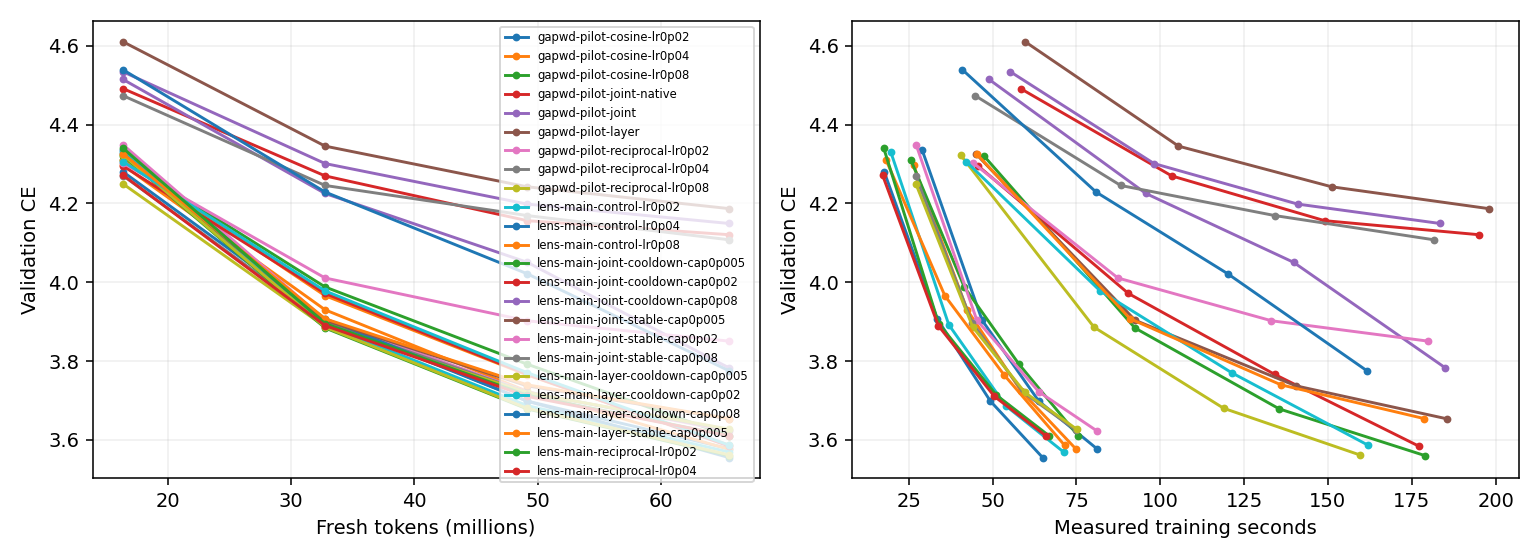
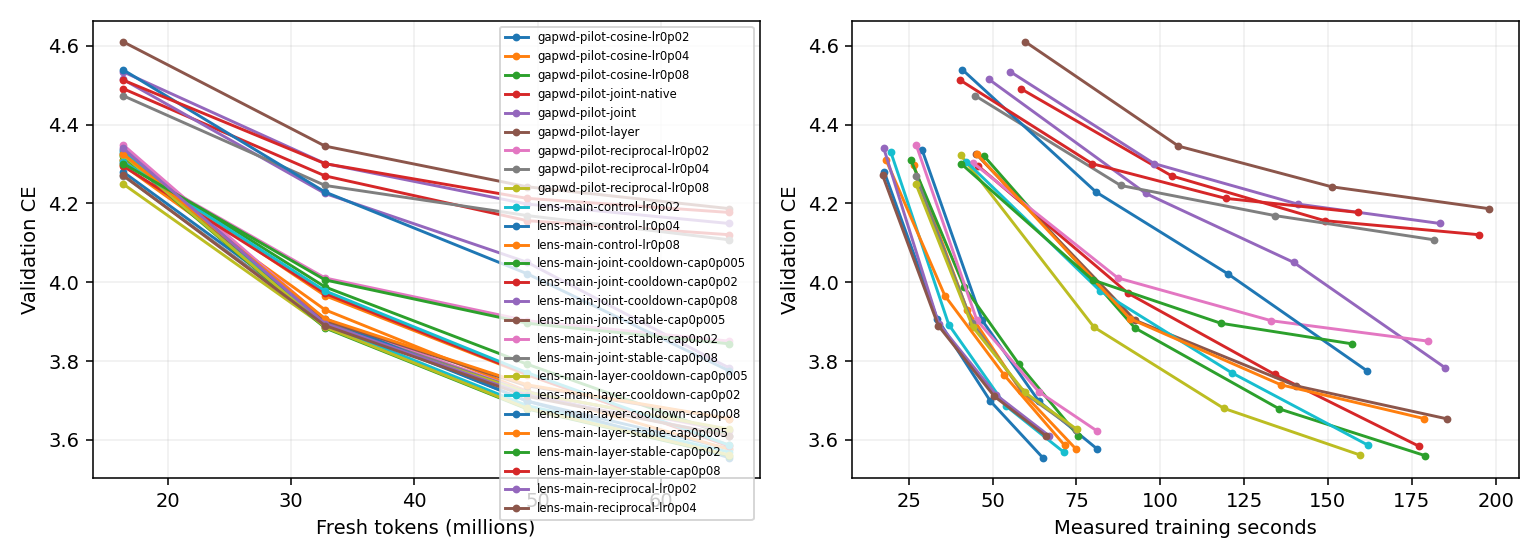
Update live Muon experiment results

diff --git a/research/unnormalized_muon/RESULTS.md b/research/unnormalized_muon/RESULTS.md
@@ -79,6 +79,9 @@ One B300 per job. CE is token cross-entropy (nats); lower is better. Rows with d
 | um-lens-main-layer-cooldown-cap0p005 | Clean GapWD layer uniform v2 c-in-Q armijo cap0.005/cooldown fixed_lambda=0.18375 WD:standard(0) | 2000 | 0 | 0.04 | 3.561886 | 1.079815 | — | 227.76 |
 | um-lens-main-layer-cooldown-cap0p02 | Clean GapWD layer uniform v2 c-in-Q armijo cap0.02/cooldown fixed_lambda=0.18375 WD:standard(0) | 2000 | 0 | 0.04 | 3.586478 | 1.087264 | — | 230.84 |
 | um-lens-main-layer-cooldown-cap0p08 | Clean GapWD layer uniform v2 c-in-Q armijo cap0.08/cooldown fixed_lambda=0.18375 WD:standard(0) | 2000 | 0 | 0.04 | 3.775003 | 1.144357 | — | 254.49 |
+| um-lens-main-layer-stable-cap0p005 | Clean GapWD layer uniform v2 c-in-Q armijo cap0.005/stable fixed_lambda=0.18375 WD:standard(0) | 2000 | 0 | 0.04 | 3.653949 | 1.107712 | — | 251.43 |
+| um-lens-main-layer-stable-cap0p02 | Clean GapWD layer uniform v2 c-in-Q armijo cap0.02/stable fixed_lambda=0.18375 WD:standard(0) | 2000 | 0 | 0.04 | 3.843672 | 1.165215 | — | 226.67 |
+| um-lens-main-layer-stable-cap0p08 | Clean GapWD layer uniform v2 c-in-Q armijo cap0.08/stable fixed_lambda=0.18375 WD:standard(0) | 2000 | 0 | 0.04 | 4.177053 | 1.266205 | — | 223.52 |
 | um-lens-main-reciprocal-lr0p02 | Clean Muon shifted reciprocal v2 c-in-Q fixed_lambda=0.18375 WD:standard(0) | 2000 | 0 | 0.02 | 3.609994 | 1.094386 | — | 123.51 |
 | um-lens-main-reciprocal-lr0p04 | Clean Muon shifted reciprocal v2 c-in-Q fixed_lambda=0.18375 WD:standard(0) | 2000 | 0 | 0.04 | 3.610242 | 1.094431 | — | 116.29 |
 | um-screen-00-0-native-lr0p005 | Native cooldown | 2000 | 0 | 0.005 | 3.734536 | 1.132046 | — | 145.49 |
@@ -120,7 +123,7 @@ One B300 per job. CE is token cross-entropy (nats); lower is better. Rows with d
 
 Review of um-fw-diagnostic-001: Compiled training f0 compared against functional candidate losses; vanishing-step mismatch2-4e-5 exceeded tolerance, leading to curvature1e186 and45 skipped steps. Replaced by paired functional reference and candidates; retain all645 measured forwards and GPUcost.
 
-Conservative charged/reserved total: 9.4340 / 30 B300 GPU-hours. Includes prior smoke/failed attempts and current maximum-duration reservations. Six-slot central queue; one B300 per run.
+Conservative charged/reserved total: 8.6557 / 30 B300 GPU-hours. Includes prior smoke/failed attempts and current maximum-duration reservations. Six-slot central queue; one B300 per run.
 
 CLEAN geometry disables row equilibration and NorMuon. Original clean runs use zero matrix decay; new WD runs explicitly label standard or cautious decay and their CLI coefficient. Same five Polar Express steps and Frobenius correction; scale by the per-matrix nonnegative FP32 inner product of the native Nesterov input with the NS/Frobenius direction. Shape scaling occurs once outside the scalar. Legacy rows retain production extras and must be compared separately. Constant schedule changes only matrix LR; auxiliary schedules and momentum remain matched.
 

diff --git a/research/unnormalized_muon/FW_LENS_RESULTS.md b/research/unnormalized_muon/FW_LENS_RESULTS.md
@@ -30,6 +30,8 @@ Token-based schedule curves are descriptive. Independently scheduled equal-time 
 | um-lens-main-layer-cooldown-cap0p02 | layer-cooldown | 2000 updates | 0 | 3.586478 | — | 162.107 | 4006 | 32.671 | 230.84 |
 | um-lens-main-layer-cooldown-cap0p08 | layer-cooldown | 2000 updates | 0 | 3.775003 | — | 161.803 | 4065 | 40.630 | 254.49 |
 | um-lens-main-layer-stable-cap0p005 | layer-stable | 2000 updates | 0 | 3.653949 | — | 178.828 | 4000 | 33.361 | 251.43 |
+| um-lens-main-layer-stable-cap0p02 | layer-stable | 2000 updates | 0 | 3.843672 | — | 157.288 | 4004 | 31.804 | 226.67 |
+| um-lens-main-layer-stable-cap0p08 | layer-stable | 2000 updates | 0 | 4.177053 | — | 159.261 | 4064 | 31.763 | 223.52 |
 | um-lens-main-reciprocal-lr0p02 | reciprocal | 2000 updates | 0 | 3.609994 | — | 67.004 | 0 | 26.860 | 123.51 |
 | um-lens-main-reciprocal-lr0p04 | reciprocal | 2000 updates | 0 | 3.610242 | — | 65.990 | 0 | 23.884 | 116.29 |
 
@@ -55,5 +57,7 @@ Contraction is the actual coefficient product_t(1-lambda*eta_l,t), represented i
 | um-lens-main-layer-cooldown-cap0p02 | 2000/2000 | 0 | 0.015118 | 0.002778 | 1e-16 | 1 | -5.01 to -4.851 | 0.420678 |
 | um-lens-main-layer-cooldown-cap0p08 | 2000/2000 | 0 | 0.058428 | 0.010736 | 1e-16 | 1 | -19.79 to -18.76 | 0.404548 |
 | um-lens-main-layer-stable-cap0p005 | 2000/2000 | 0 | 0.005 | 0.00091875 | 1e-16 | 1 | -1.82 to -1.8 | 0.305951 |
+| um-lens-main-layer-stable-cap0p02 | 2000/2000 | 0 | 0.02 | 0.003675 | 1e-16 | 1 | -7.286 to -7.098 | 0.460939 |
+| um-lens-main-layer-stable-cap0p08 | 2000/2000 | 0 | 0.08 | 0.0147 | 1e-16 | 1 | -28.98 to -27.8 | 0.790492 |
 
 Curvature values in Armijo variants parameterize proposals; their acceptance is NOT a certificate of the quadratic upper model. Final spectral ratios are lambda*||W_l||op/c_l; native approximate NS output is not certified to have unit spectral norm. Initial/final iterate feasibility alone does not certify oracle accuracy. Cold two-second clock checks intentionally permit one-update overshoot; do not use them as quality endpoints.

diff --git a/research/unnormalized_muon/DETAILED_EVAL.md b/research/unnormalized_muon/DETAILED_EVAL.md
@@ -323,5 +323,17 @@ um-lens-main-layer-stable-cap0p005: accepted 2000/2000; skipped nonpositive bloc
 
 Timing seconds: direction=71.458, reference=14.916, candidates=14.601, auxiliary=1.790.
 
+| um-lens-main-layer-stable-cap0p02 | layer native | 0.1837499 | 2000 | 3.843672 | 4004 | 226.67 |
+
+um-lens-main-layer-stable-cap0p02: accepted 2000/2000; skipped nonpositive blocks 111; median actual eta 0.02; median gamma 0.003675; median L 1e-16; median trials 1; max measured spectral ratio lambda*||W||op=0.460939. Native approximate NS can violate the ideal unit-oracle premise; this is recorded, not hidden.
+
+Timing seconds: direction=54.553, reference=14.339, candidates=14.183, auxiliary=1.862.
+
+| um-lens-main-layer-stable-cap0p08 | layer native | 0.1837499 | 2000 | 4.177053 | 4064 | 223.52 |
+
+um-lens-main-layer-stable-cap0p08: accepted 2000/2000; skipped nonpositive blocks 282; median actual eta 0.08; median gamma 0.0147; median L 1e-16; median trials 1; max measured spectral ratio lambda*||W||op=0.790492. Native approximate NS can violate the ideal unit-oracle premise; this is recorded, not hidden.
+
+Timing seconds: direction=55.587, reference=14.607, candidates=14.695, auxiliary=1.890.
+
 | um-lens-main-reciprocal-lr0p02 | fw_reciprocal native | 0.1837499 | 2000 | 3.609994 | 0 | 123.51 |
 | um-lens-main-reciprocal-lr0p04 | fw_reciprocal native | 0.1837499 | 2000 | 3.610242 | 0 | 116.29 |
